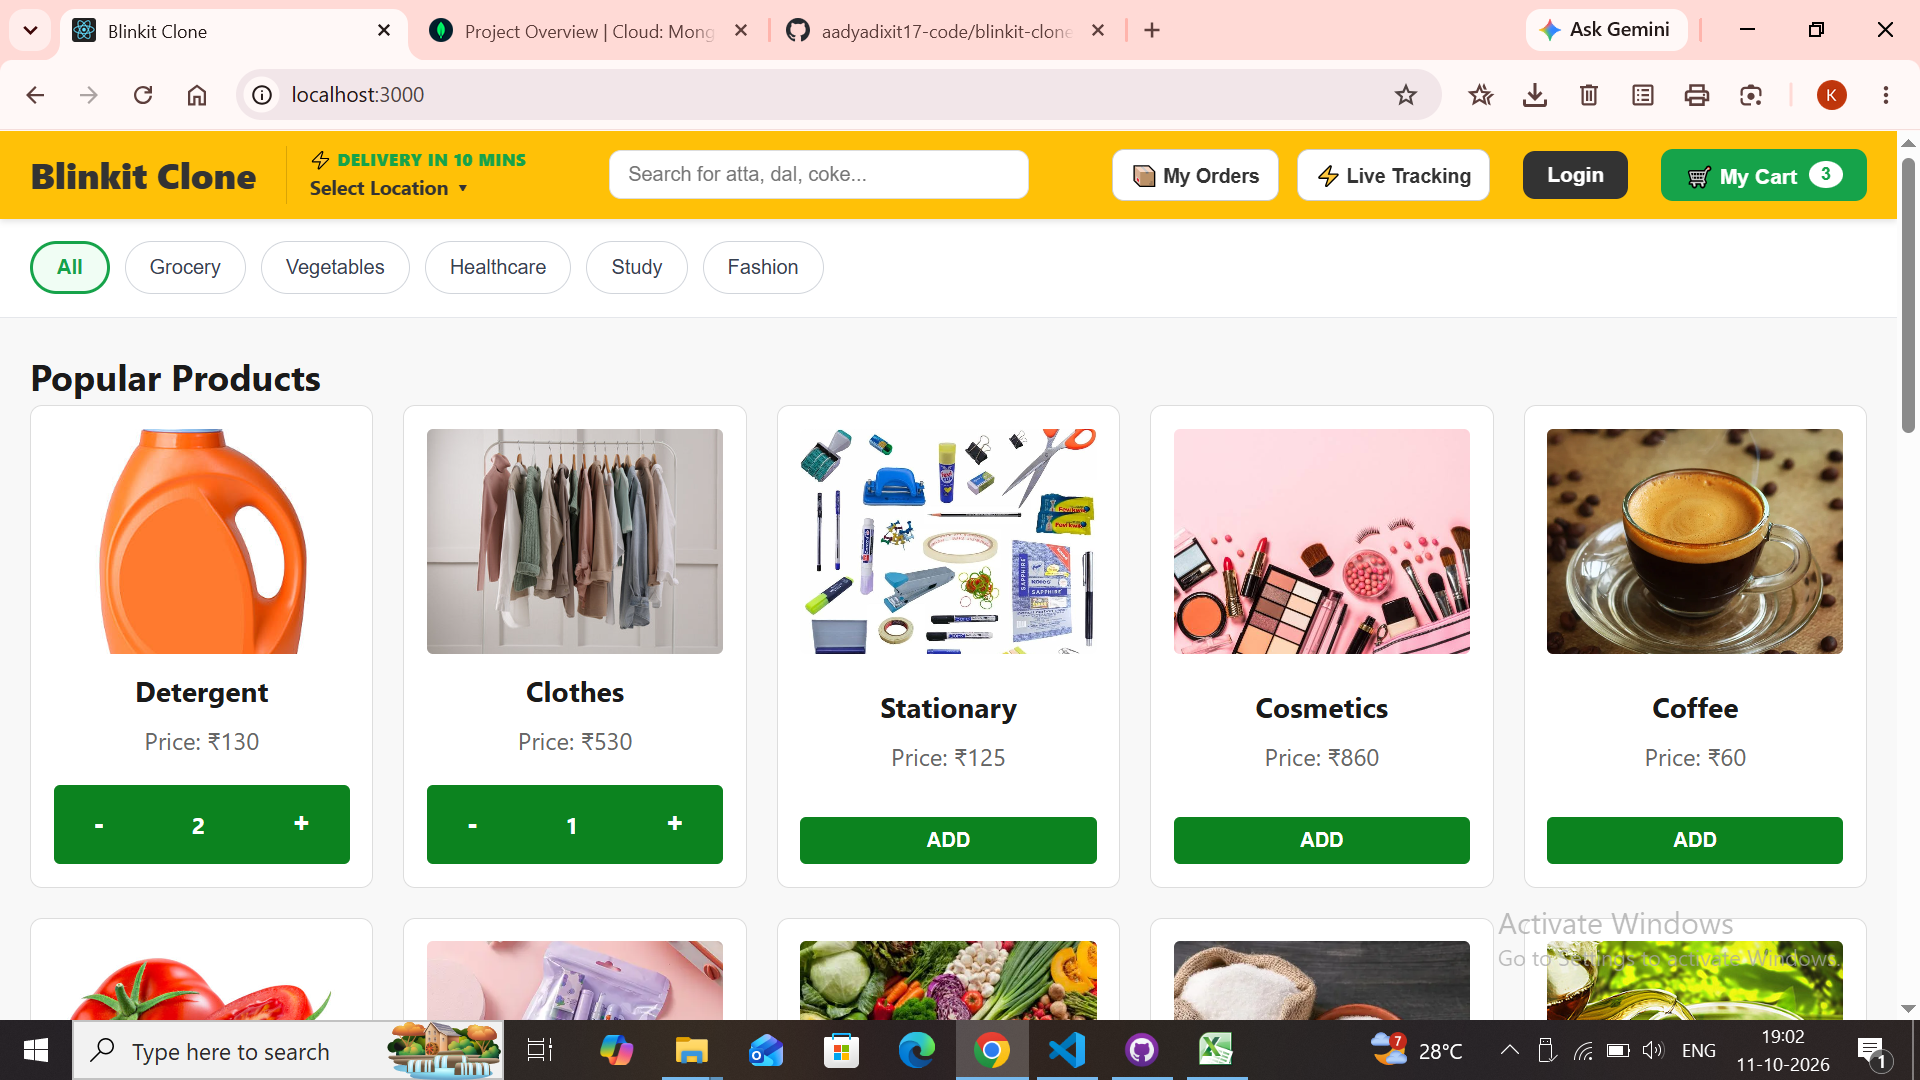
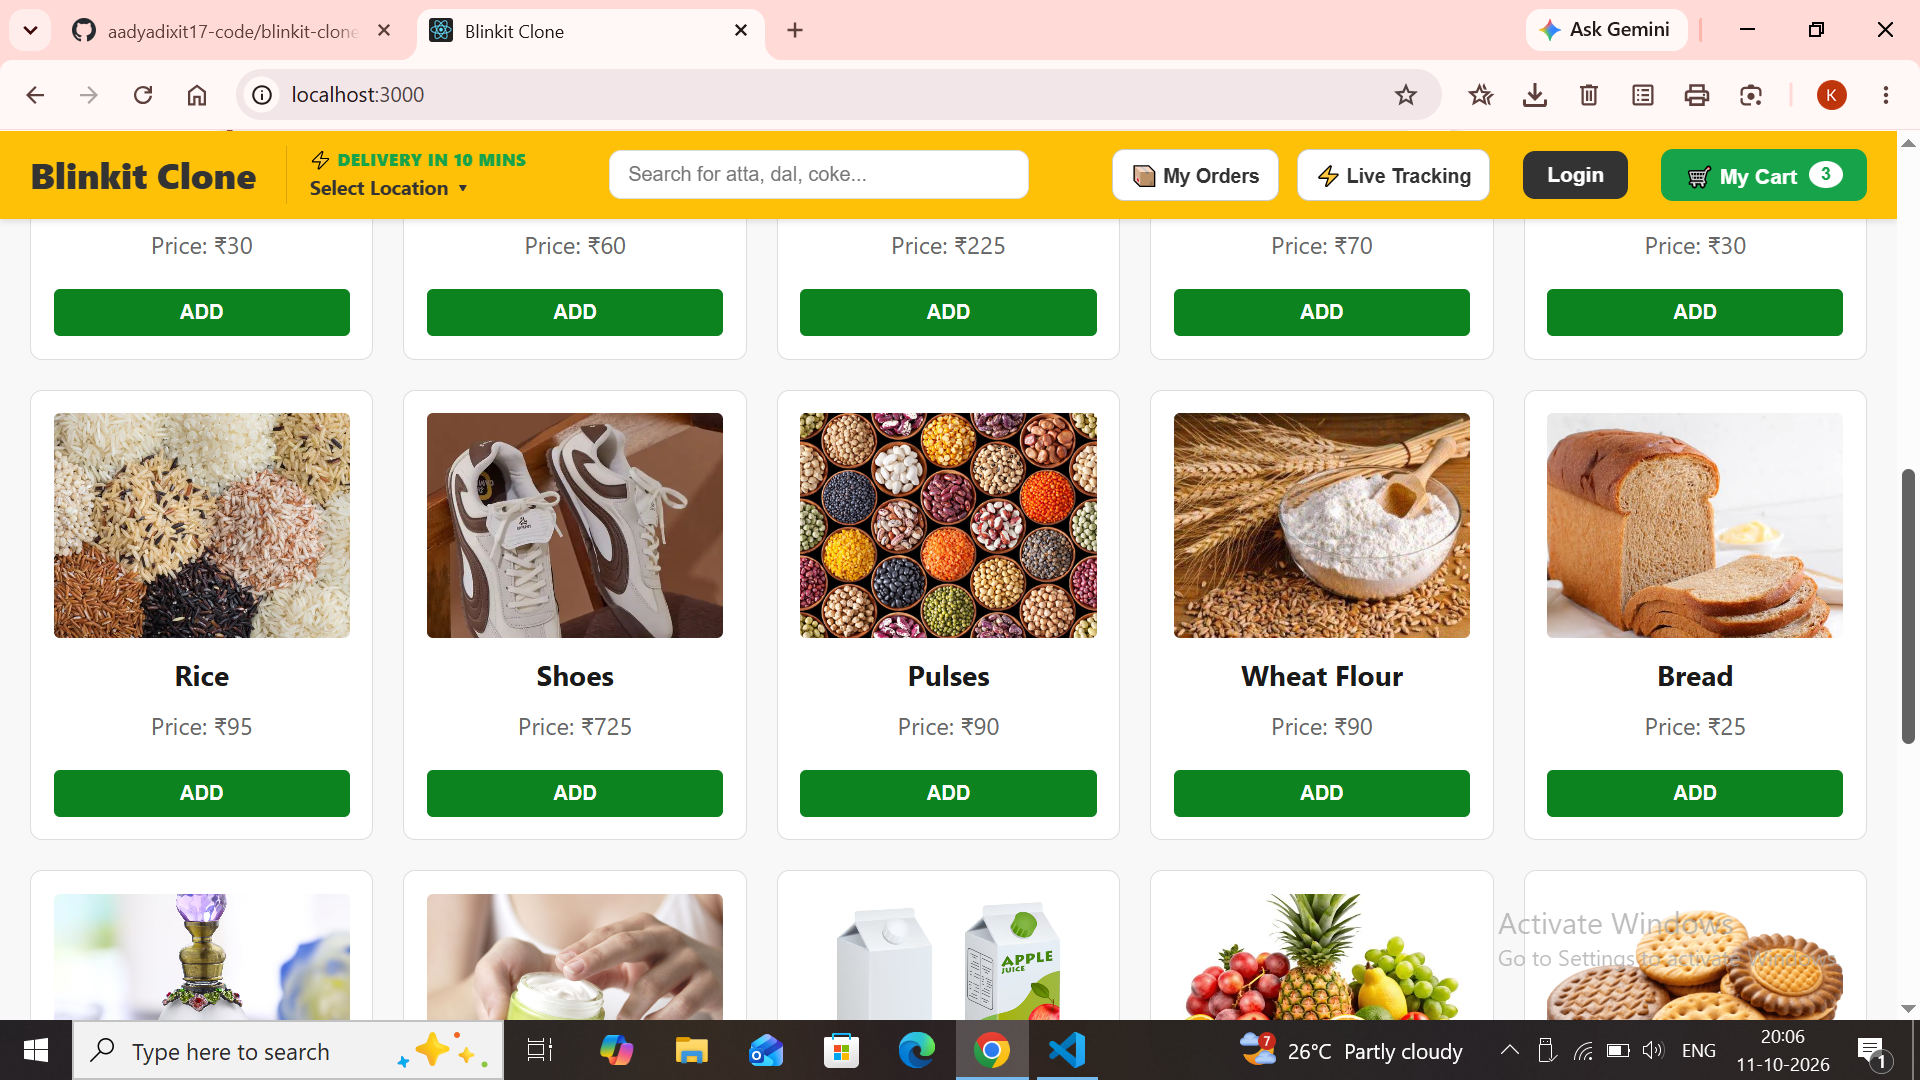
updated dashboard pic

diff --git a/README.md b/README.md
@@ -43,7 +43,7 @@ Below is a visual breakdown of the application frontend, payment simulation, API
 | <img src="postman.jpeg" width="400" alt="Postman API Testing" /> | <img src="mongo db.jpeg" width="400" alt="MongoDB Atlas Storage" /> |
 | *Rigorously tested REST endpoints for products and orders.* | *Persistent JSON collections securely hosted in MongoDB Atlas.* |
 
-## 🚧 Features In Progress (Coming Soon)
+## 🚧 Features In Progress 
 
 To provide full transparency on the project's development roadmap, the following features are actively under development:
 * **📦 Order History & Management:** Dedicated `/orders` page to view past orders and detailed item statuses.
